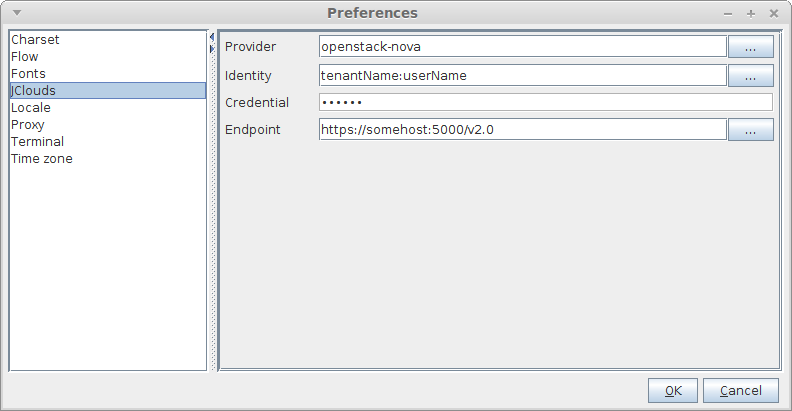
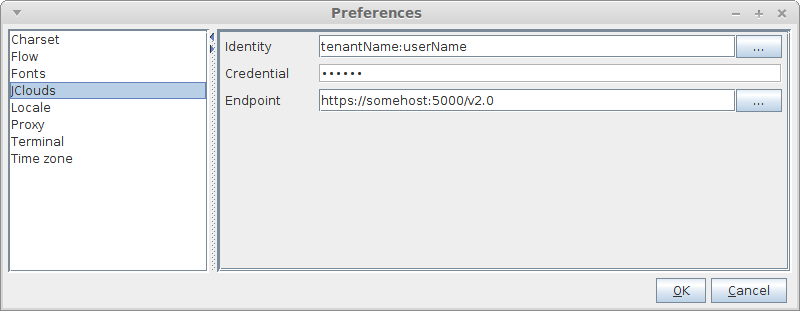
actions now return what "provider" they need

Changed region(s): [[0.0, 0.0, 1.0, 0.9839]]

diff --git a/adams-jclouds/src/main/java/adams/flow/standalone/JCloudsConnection.java b/adams-jclouds/src/main/java/adams/flow/standalone/JCloudsConnection.java
@@ -24,6 +24,8 @@ import adams.core.QuickInfoHelper;
 import adams.core.base.BasePassword;
 import adams.core.base.BaseURL;
 import adams.core.net.JClouds;
+import adams.flow.core.Actor;
+import adams.flow.core.ActorUtils;
 import com.google.common.collect.ImmutableSet;
 import com.google.common.io.Closeables;
 import com.google.inject.Module;
@@ -32,6 +34,7 @@ import org.jclouds.logging.slf4j.config.SLF4JLoggingModule;
 
 import java.io.Closeable;
 import java.util.HashMap;
+import java.util.List;
 import java.util.logging.Level;
 
 /**
@@ -79,7 +82,7 @@ import java.util.logging.Level;
  * 
  * <pre>-provider &lt;java.lang.String&gt; (property: provider)
  * &nbsp;&nbsp;&nbsp;The cloud provider to use.
- * &nbsp;&nbsp;&nbsp;default: openstack-nova
+ * &nbsp;&nbsp;&nbsp;default: 
  * </pre>
  * 
  * <pre>-identity &lt;java.lang.String&gt; (property: identity)
@@ -96,7 +99,7 @@ import java.util.logging.Level;
  * &nbsp;&nbsp;&nbsp;The URL for the API endpoint.
  * &nbsp;&nbsp;&nbsp;default: https:&#47;&#47;somehost:5000&#47;v2.0
  * </pre>
- *
+ * 
  <!-- options-end -->
  *
  * @author  fracpete (fracpete at waikato dot ac dot nz)
@@ -142,7 +145,7 @@ public class JCloudsConnection
 
     m_OptionManager.add(
       "provider", "provider",
-      JClouds.getProvider());
+      "");
 
     m_OptionManager.add(
       "identity", "identity",
@@ -367,5 +370,37 @@ public class JCloudsConnection
   public void cleanUp() {
     closeAPI();
     super.cleanUp();
+  }
+
+  /**
+   * Determines the JCloudsConnection in the flow that matches the specified
+   * provider.
+   *
+   * @param start	the starting point of the search
+   * @param provider	the provider to look for
+   * @return		the located connection, null if none located
+   */
+  public static JCloudsConnection getConnection(Actor start, String provider) {
+    JCloudsConnection	result;
+    List<Actor>		actors;
+    JCloudsConnection	conn;
+
+    if ((provider == null) || provider.isEmpty())
+      return null;
+
+    result = null;
+    actors = ActorUtils.findClosestTypes(
+      start,
+      adams.flow.standalone.JCloudsConnection.class,
+      true);
+    for (Actor actor: actors) {
+      conn = (JCloudsConnection) actor;
+      if (conn.getProvider().equals(provider)) {
+	result = conn;
+	break;
+      }
+    }
+
+    return result;
   }
 }

diff --git a/adams-jclouds/src/main/java/adams/flow/source/JCloudsSource.java b/adams-jclouds/src/main/java/adams/flow/source/JCloudsSource.java
@@ -21,7 +21,6 @@
 package adams.flow.source;
 
 import adams.core.QuickInfoHelper;
-import adams.flow.core.ActorUtils;
 import adams.flow.core.Token;
 import adams.flow.source.jclouds.Dummy;
 import adams.flow.source.jclouds.JCloudsSourceAction;
@@ -152,18 +151,6 @@ public class JCloudsSource
   }
 
   /**
-   * Determines the JClouds connection in the flow.
-   *
-   * @return		the JClouds connection to use
-   */
-  protected JCloudsConnection getConnection() {
-    return (JCloudsConnection) ActorUtils.findClosestType(
-      this,
-      adams.flow.standalone.JCloudsConnection.class,
-      true);
-  }
-
-  /**
    * Initializes the item for flow execution.
    *
    * @return		null if everything is fine, otherwise error message
@@ -175,7 +162,7 @@ public class JCloudsSource
     result = super.setUp();
 
     if (result == null) {
-      m_Connection = getConnection();
+      m_Connection = JCloudsConnection.getConnection(this, m_Action.getProvider());
       if (m_Connection == null)
         result = "Failed to locate " + JCloudsConnection.class.getName() + " instance!";
     }

diff --git a/adams-jclouds/src/main/java/adams/flow/transformer/JCloudsTransformer.java b/adams-jclouds/src/main/java/adams/flow/transformer/JCloudsTransformer.java
@@ -21,7 +21,6 @@
 package adams.flow.transformer;
 
 import adams.core.QuickInfoHelper;
-import adams.flow.core.ActorUtils;
 import adams.flow.core.Token;
 import adams.flow.standalone.JCloudsConnection;
 import adams.flow.transformer.jclouds.Dummy;
@@ -154,18 +153,6 @@ public class JCloudsTransformer
   }
 
   /**
-   * Determines the JClouds connection in the flow.
-   *
-   * @return		the JClouds connection to use
-   */
-  protected JCloudsConnection getConnection() {
-    return (JCloudsConnection) ActorUtils.findClosestType(
-      this,
-      JCloudsConnection.class,
-      true);
-  }
-
-  /**
    * Initializes the item for flow execution.
    *
    * @return		null if everything is fine, otherwise error message
@@ -177,7 +164,7 @@ public class JCloudsTransformer
     result = super.setUp();
 
     if (result == null) {
-      m_Connection = getConnection();
+      m_Connection = JCloudsConnection.getConnection(this, m_Action.getProvider());
       if (m_Connection == null)
         result = "Failed to locate " + JCloudsConnection.class.getName() + " instance!";
     }

diff --git a/adams-jclouds/src/main/java/adams/flow/sink/JCloudsSink.java b/adams-jclouds/src/main/java/adams/flow/sink/JCloudsSink.java
@@ -21,7 +21,6 @@
 package adams.flow.sink;
 
 import adams.core.QuickInfoHelper;
-import adams.flow.core.ActorUtils;
 import adams.flow.sink.jclouds.Dummy;
 import adams.flow.sink.jclouds.JCloudsSinkAction;
 import adams.flow.standalone.JCloudsConnection;
@@ -151,18 +150,6 @@ public class JCloudsSink
   }
 
   /**
-   * Determines the JClouds connection in the flow.
-   *
-   * @return		the JClouds connection to use
-   */
-  protected JCloudsConnection getConnection() {
-    return (JCloudsConnection) ActorUtils.findClosestType(
-      this,
-      JCloudsConnection.class,
-      true);
-  }
-
-  /**
    * Returns the class that the consumer accepts.
    *
    * @return		the Class of objects that can be processed
@@ -184,7 +171,7 @@ public class JCloudsSink
     result = super.setUp();
 
     if (result == null) {
-      m_Connection = getConnection();
+      m_Connection = JCloudsConnection.getConnection(this, m_Action.getProvider());
       if (m_Connection == null)
         result = "Failed to locate " + JCloudsConnection.class.getName() + " instance!";
     }

diff --git a/adams-jclouds/src/main/java/adams/flow/standalone/JCloudsStandalone.java b/adams-jclouds/src/main/java/adams/flow/standalone/JCloudsStandalone.java
@@ -21,7 +21,6 @@
 package adams.flow.standalone;
 
 import adams.core.QuickInfoHelper;
-import adams.flow.core.ActorUtils;
 import adams.flow.standalone.jclouds.Dummy;
 import adams.flow.standalone.jclouds.JCloudsStandaloneAction;
 
@@ -146,18 +145,6 @@ public class JCloudsStandalone
   }
 
   /**
-   * Determines the JClouds connection in the flow.
-   *
-   * @return		the JClouds connection to use
-   */
-  protected JCloudsConnection getConnection() {
-    return (JCloudsConnection) ActorUtils.findClosestType(
-      this,
-      JCloudsConnection.class,
-      true);
-  }
-
-  /**
    * Initializes the item for flow execution.
    *
    * @return		null if everything is fine, otherwise error message
@@ -169,7 +156,7 @@ public class JCloudsStandalone
     result = super.setUp();
 
     if (result == null) {
-      m_Connection = getConnection();
+      m_Connection = JCloudsConnection.getConnection(this, m_Action.getProvider());
       if (m_Connection == null)
         result = "Failed to locate " + JCloudsConnection.class.getName() + " instance!";
     }

diff --git a/adams-jclouds/src/main/java/adams/core/net/JClouds.java b/adams-jclouds/src/main/java/adams/core/net/JClouds.java
@@ -37,9 +37,6 @@ public class JClouds {
   /** the properties file. */
   public final static String FILENAME = "adams/core/net/JClouds.props";
 
-  /** the key for the provider. */
-  public final static String PROVIDER = "Provider";
-
   /** the key for the identity (= tenantName:userName). */
   public final static String IDENTITY = "Identity";
 
@@ -98,15 +95,6 @@ public class JClouds {
     m_Properties = null;
 
     return result;
-  }
-
-  /**
-   * Returns the provider.
-   * 
-   * @return		the provider
-   */
-  public static String getProvider() {
-    return getProperties().getProperty(PROVIDER);
   }
 
   /**

diff --git a/adams-jclouds/src/main/java/adams/gui/application/JCloudsSettingsPanel.java b/adams-jclouds/src/main/java/adams/gui/application/JCloudsSettingsPanel.java
@@ -41,12 +41,10 @@ public class JCloudsSettingsPanel
   protected void initGUI() {
     super.initGUI();
 
-    addPropertyType(JClouds.PROVIDER,   PropertyType.STRING);
     addPropertyType(JClouds.IDENTITY,   PropertyType.STRING);
     addPropertyType(JClouds.CREDENTIAL, PropertyType.PASSWORD);
     addPropertyType(JClouds.ENDPOINT,   PropertyType.STRING);
     setPropertyOrder(new String[]{
-      JClouds.PROVIDER,
       JClouds.IDENTITY,
       JClouds.CREDENTIAL,
       JClouds.ENDPOINT

diff --git a/adams-jclouds/src/main/java/adams/flow/JCloudsAction.java b/adams-jclouds/src/main/java/adams/flow/JCloudsAction.java
@@ -48,6 +48,13 @@ public interface JCloudsAction
   public JCloudsConnection getConnection();
 
   /**
+   * Returns the provider that this action requires.
+   *
+   * @return		the provider
+   */
+  public String getProvider();
+
+  /**
    * Performs the action.
    *
    * @return		null if successful, otherwise error message

diff --git a/adams-openstack/src/main/java/adams/flow/source/jclouds/ListServers.java b/adams-openstack/src/main/java/adams/flow/source/jclouds/ListServers.java
@@ -121,6 +121,15 @@ public class ListServers
   }
 
   /**
+   * Returns the provider that this action requires.
+   *
+   * @return		the provider
+   */
+  public String getProvider() {
+    return "openstack-nova";
+  }
+
+  /**
    * Returns the data types of the generated data.
    *
    * @return		the data types

diff --git a/adams-openstack/src/main/java/adams/flow/source/jclouds/ListRegions.java b/adams-openstack/src/main/java/adams/flow/source/jclouds/ListRegions.java
@@ -70,6 +70,15 @@ public class ListRegions
   }
 
   /**
+   * Returns the provider that this action requires.
+   *
+   * @return		the provider
+   */
+  public String getProvider() {
+    return "openstack-nova";
+  }
+
+  /**
    * Returns the data types of the generated data.
    *
    * @return		the data types

diff --git a/adams-jclouds/src/main/java/adams/flow/standalone/jclouds/Dummy.java b/adams-jclouds/src/main/java/adams/flow/standalone/jclouds/Dummy.java
@@ -53,6 +53,15 @@ public class Dummy
   }
 
   /**
+   * Returns the provider that this action requires.
+   *
+   * @return		the provider
+   */
+  public String getProvider() {
+    return null;
+  }
+
+  /**
    * Performs the actual action.
    *
    * @return		null if successful, otherwise error message

diff --git a/adams-jclouds/src/main/java/adams/flow/sink/jclouds/Dummy.java b/adams-jclouds/src/main/java/adams/flow/sink/jclouds/Dummy.java
@@ -53,6 +53,15 @@ public class Dummy
   }
 
   /**
+   * Returns the provider that this action requires.
+   *
+   * @return		the provider
+   */
+  public String getProvider() {
+    return null;
+  }
+
+  /**
    * Returns the accepted data types.
    *
    * @return		the data types
